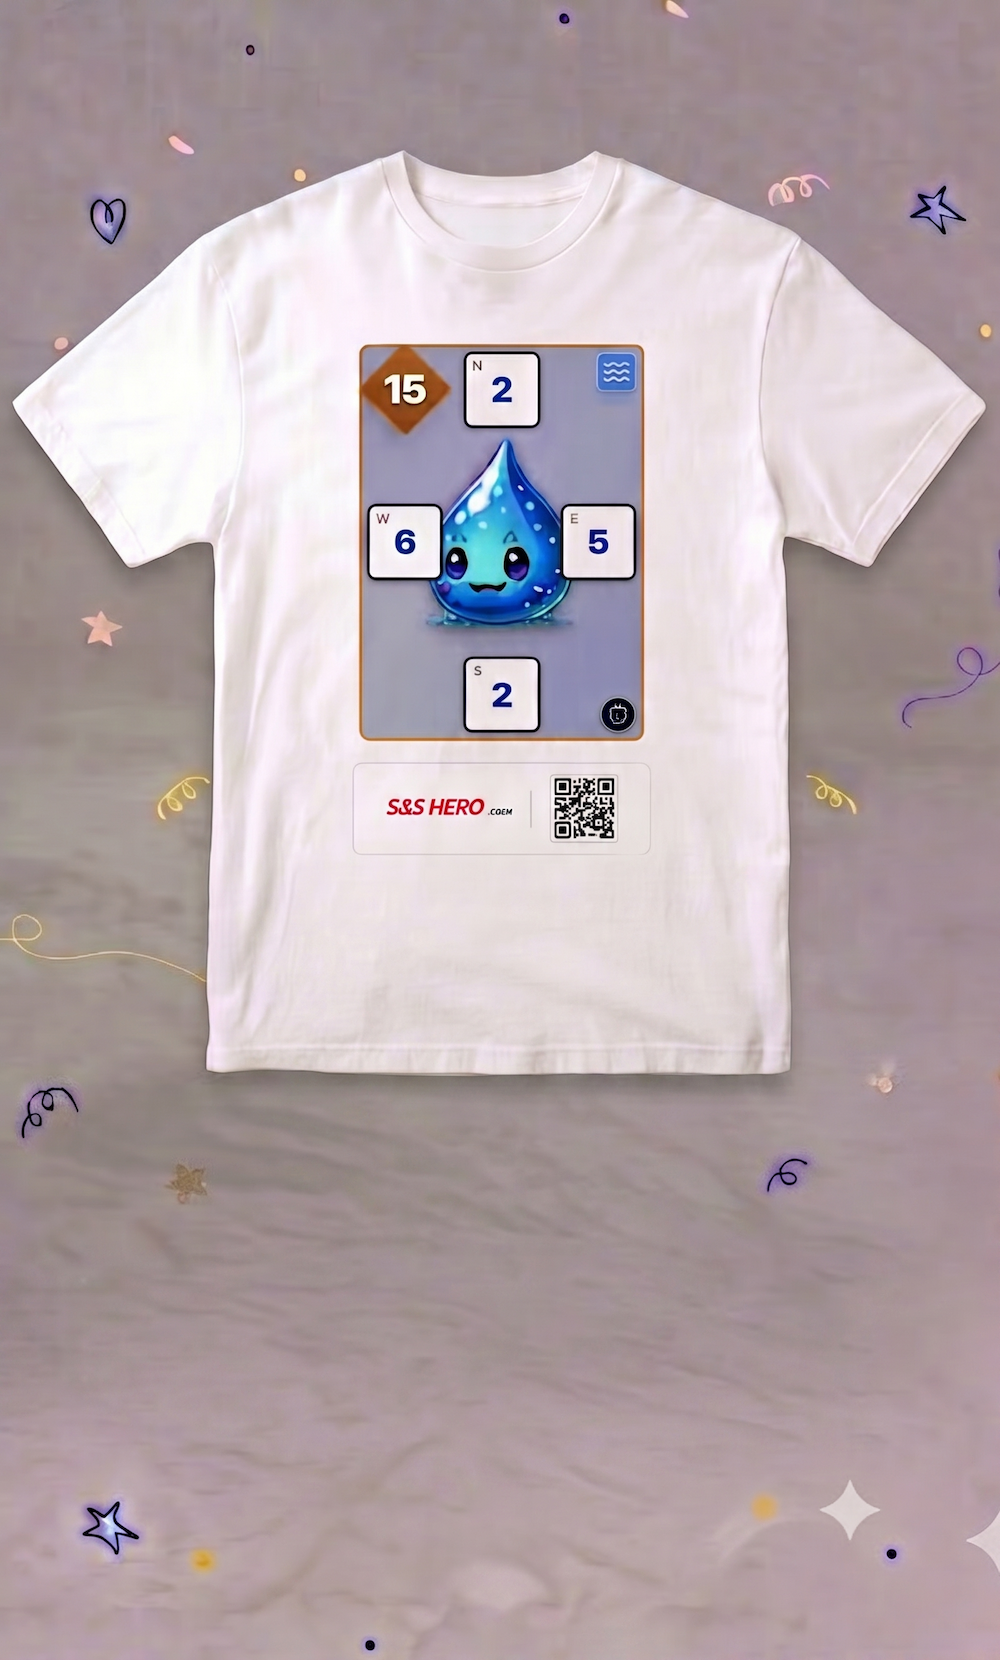
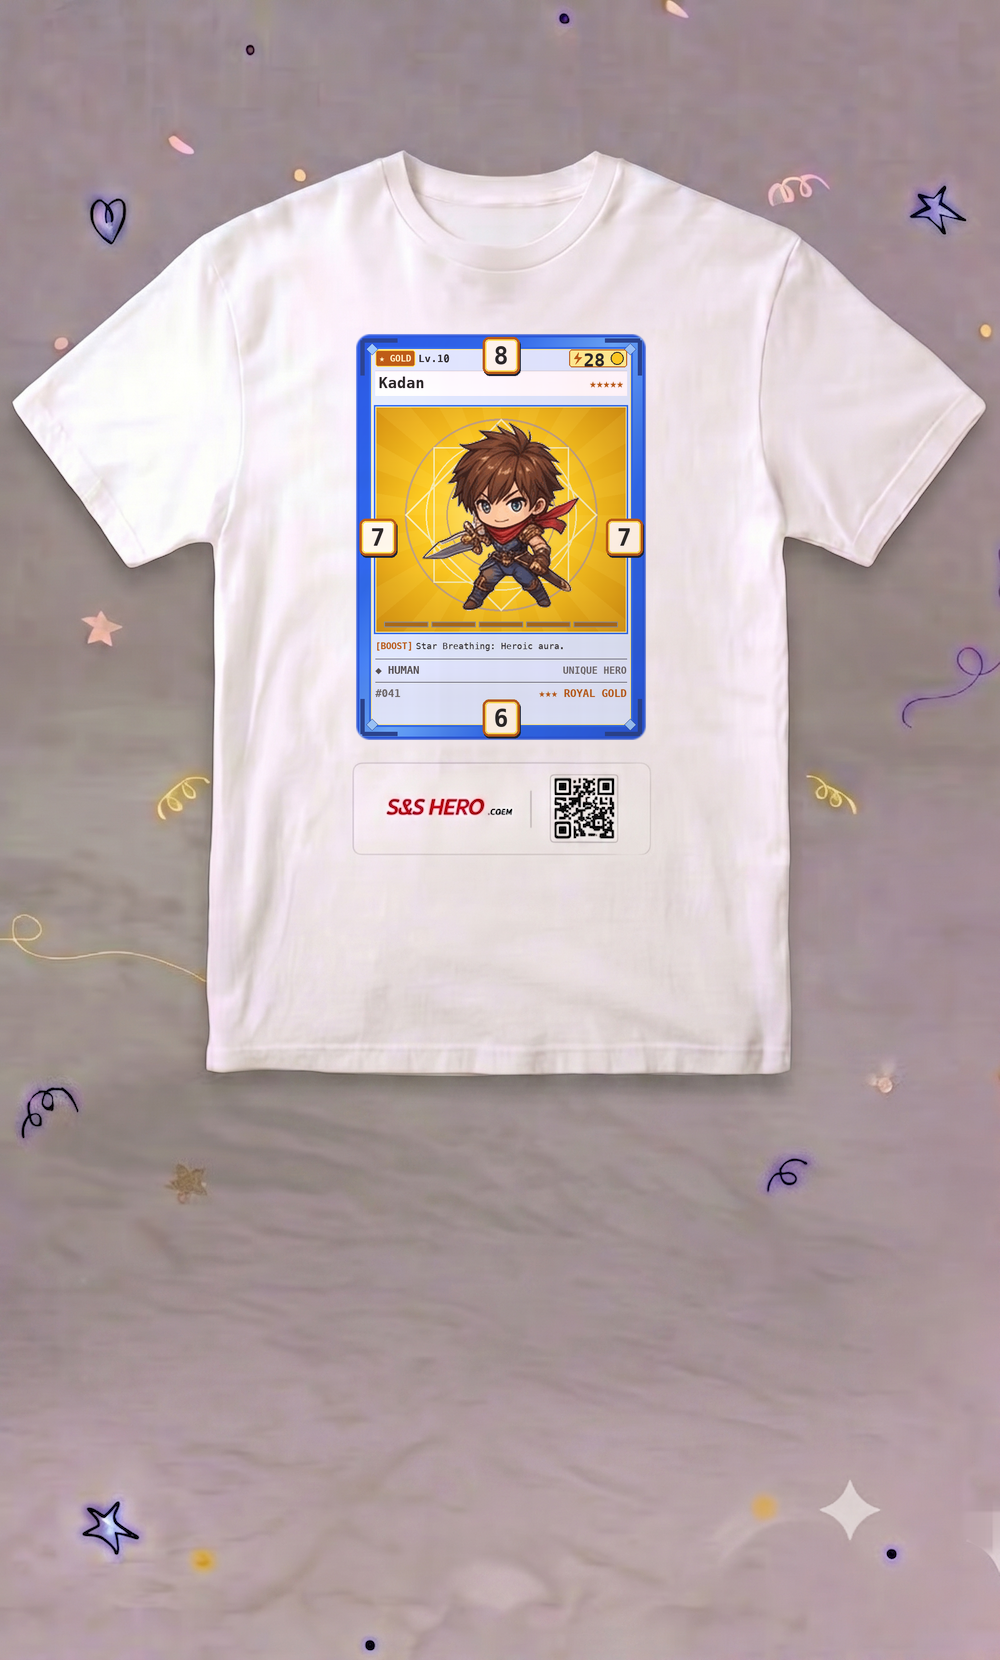
feat(mall): update all goods shop product images with current SNSHero card design

Changed region(s): [[0.341, 0.1843, 0.651, 0.4608], [0.992, 0.891, 1.0, 0.9217], [0.961, 0.9217, 0.992, 0.9524]]

diff --git a/WORK_LOGS.md b/WORK_LOGS.md
@@ -2,6 +2,22 @@
 
 이 문서는 매시 정각 주기 스케줄러 및 수동 실행 시 스프레드시트 작업 동기화, 코드 수정 및 검증, 구글 폼 보고 내역을 기록하는 영구 로그입니다.
 
+## [2026-10-27 12:16 KST] [굿즈샵(/mall) 전 상품 이미지 내 구버전 카드 디자인을 현행 SNSHero 카드 디자인으로 전면 교체 및 3D 원근·조명 합성 완료]
+- **요청 사항**:
+  - "https://snshero.com/mall 에 이미지 중에 카드 이미지를 현행화 해서 이미지를 업데이트 하자."
+- **주요 구현 및 수정 내역**:
+  1. **현행 SNSHero 카드 디자인(`src/components/Card.tsx` 규격) 고해상도 렌더러 및 3D 원근·곡면·조명 합성 파이프라인 구현**:
+     - `public/seat/001.png` ~ `110.png` 공식 픽셀아트 영웅 에셋, 상단 랭크·레벨·`N` 스탯·스태미나 헤더, 좌/우/하(`W/E/S`) 방향 스탯 박스, 8각 마법진 배경, 스킬 바(`WALL`/`OMNI`/`FLIP`/`ASSAULT`), 진영 및 등급 푸터를 현행 카드 디자인과 100% 동일하게 렌더링하여 기존 상품 촬영 구도·조명·원근·그립·나무 거치대·덱 박스 내부에 정밀 합성.
+  2. **굿즈샵(`/mall`) 상품 이미지 8종 전면 현행화 완료 (`public/mall/cdn/shop/files/`)**:
+     - **[`1.png`](file:///Users/dayyoung/project/snshero/public/mall/cdn/shop/files/1.png) (Hero Mug)**: 머그컵 전면의 구버전 카드를 현행 카단(`#41`, Royal Gold) 카드로 원통형 곡면 워핑(Cylindrical Warp) 및 도자기 하이라이트·음영 합성, 우측 하단 워터마크 제거.
+     - **[`2.png`](file:///Users/dayyoung/project/snshero/public/mall/cdn/shop/files/2.png) (Hero T-Shirt)**: 화이트 코튼 티셔츠 가슴 중앙 프린트를 현행 카단(`#41`) 카드로 교체하고 원단 주름 음영(Fabric Shading Multiply) 적용 및 우측 하단 워터마크 제거.
+     - **[`card2.png`](file:///Users/dayyoung/project/snshero/public/mall/cdn/shop/files/card2.png) (2장 스탠딩 3D 카드)**: 좌측 블루 카드를 현행 포세이돈(`#10`, Player Blue Frame), 우측 레드 카드를 현행 이그니시우스(`#20`, AI Red Frame)로 3D 원근 합성 및 두께 림 보존, 워터마크 제거.
+     - **[`card.png`](file:///Users/dayyoung/project/snshero/public/mall/cdn/shop/files/card.png) & [`Gemini_Generated_Image_2449ut2449ut2449.png`](file:///Users/dayyoung/project/snshero/public/mall/cdn/shop/files/Gemini_Generated_Image_2449ut2449ut2449.png) (110-Card Deck Box 슬라이드 1)**: 상단 부채꼴 5장(포세이돈 `#10`, 카단 `#41`, 알렉산다르 `#50`, 이그니시우스 `#20`, 드레드윙 `#110`), 오픈된 덱 박스 내부 및 반원형 썸노치 카드(에일라 `#70`), 좌측 측면 배지, 매뉴얼 내 미니 카드, 우측 하단 테이블 카드 스택(바하무트 `#104`) 전수 현행화.
+     - **[`Gemini_Generated_Image_g8auqwg8auqwg8au.png`](file:///Users/dayyoung/project/snshero/public/mall/cdn/shop/files/Gemini_Generated_Image_g8auqwg8auqwg8au.png) (110-Card Deck Box 슬라이드 2)**: 우측 상단 `S&S HERO` QR 카드 뒷면을 보존하면서 좌측 부채꼴 3장(포세이돈 `#10`, 이그니시우스 `#20`, 드레드윙 `#110`), 오픈 박스 내부 카드(에일라 `#70`), 박스 전면 그리드 내 구버전 물방울 카드 2칸(카단 `#41`, 포세이돈 `#10`), 측면 배지, 매뉴얼 미니 카드, 우측 하단 카드 스택(바하무트 `#104`) 전수 현행화.
+     - **[`pan2.png`](file:///Users/dayyoung/project/snshero/public/mall/cdn/shop/files/pan2.png) & [`pan3.png`](file:///Users/dayyoung/project/snshero/public/mall/cdn/shop/files/pan3.png) (배틀 매트 & 원목 카드 거치대 5분할 콜라주 슬라이드 2·3)**: 원목 카드 홀더에 꽂힌 카드들, 3x3 배틀 매트 위 배치된 카드들, 플레이어 손에 들린 카드(엄지손가락 마스킹 보존), 배경 아웃포커싱 카드들까지 모두 현행 SNSHero 카드로 정밀 교체 및 워터마크 제거.
+- **검증 및 보고**:
+  - 8종 전체 이미지 시각 검수 완료, `npm run lint` 통과, 로컬 Git 커밋 및 구글 폼 보고서 제출 완료.
+
 ## [2026-10-27 09:33 KST] [공식 SNSHero 유튜브 채널 내 기존 구버전 애니메이션/무비 재생목록(9종) 및 구버전 동영상(250+건) 전수 완전삭제 완료 — 금일 업로드본 80편만 유지]
 - **요청 사항**:
   - "해당 채널에 이전에 올렸던 기존 애니메이션/무비 40화 동영상 및 플레이리스트는 제거해줘. 오늘것만 유지"
